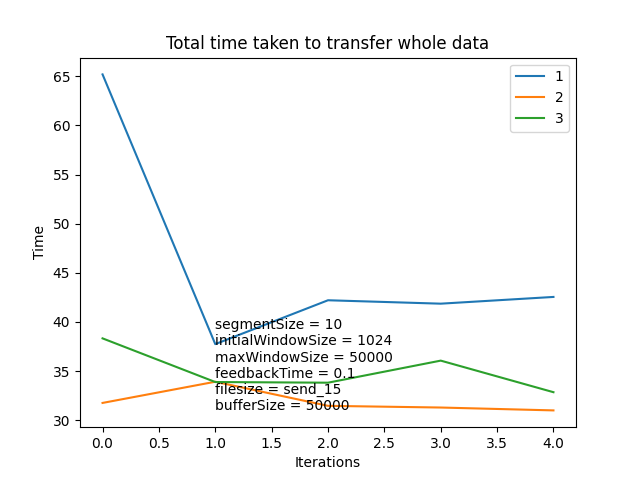
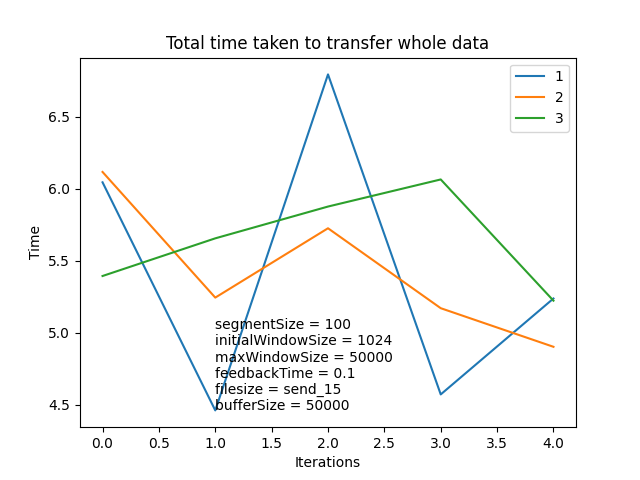
Added some graphs for loss 1

diff --git a/RUDP_testing_client.py b/RUDP_testing_client.py
@@ -66,6 +66,10 @@ for i in range(5):
 # timer_1 = [7.602732038998511, 5.475548384994909, 6.192044618001091, 6.590054241001781, 5.9031156550045125]
 # timer_2 = [8.607846077000431, 10.09384544799832, 7.935086603996751, 7.25913836700056, 7.731159035000019]
 # timer_3 = [9.750261357999989, 9.7952436869964, 10.235173731998657, 10.239129595000122, 8.248223855000106]
+# timer_1 = [6.743216530994687, 5.977355709997937, 5.3149068060010904, 5.325412235004478, 5.741012362996116]
+# timer_2 = [7.36355656899832, 6.8418743680012994, 6.257764028996462, 4.644368727000256, 5.1715113739992375]
+# timer_3 = [5.542510102000961, 5.492816213001788, 5.498592156996892, 5.550686763999693, 5.4335575029981555]
+
 print(timer_1)
 print(timer_2)
 print(timer_3)
@@ -87,25 +91,9 @@ textstr = '\n'.join((
     f'bufferSize = {options.bufferSize}'))
 
 
-
-# props = dict(boxstyle='round', facecolor='wheat', alpha=0.5)
-
-# plt.text(0.05, 0.95, textstr, fontsize=14,
-#         verticalalignment='top')
-
-# plt.figtext(-0.05, 3.5, s=textstr, horizontalalignment = "center")
 y=min(min(timer_1), min(timer_2), min(timer_3))
 plt.text(1, y, textstr)
 
-# timer_name = "/home/mininet/FCN_project/graphs/timer_logs_" +  options.dstIP + "_" + str(options.port)\
-#      + "_" + str(options.initialWindowSize) + "_" + str(options.feedbackTime) +\
-#            "_" + str(options.maxWindowSize) + "_" + sfile[0] + "_" + str(options.bufferSize) + "_" + ".png"
-
-# textfile = open(timer_name, "w")
-# textfile.write(timer_1)
-# textfile.write(timer_2)
-# textfile.write(timer_3)
-# textfile.close()
 
 
 file_name = "/home/mininet/FCN_project/graphs/client_" +  options.dstIP + "_" + str(options.port)\

diff --git a/mininetSocketTest.py b/mininetSocketTest.py
@@ -33,7 +33,7 @@ class SingleSwitchTopo( Topo ):
                                 cpu=.5 / n)
             if lossy:
                 # 10 Mbps, 5ms delay, 10% packet loss
-                self.addLink(host, switch, bw=100, delay='5ms', loss=10, use_htb=True)
+                self.addLink(host, switch, bw=100, delay='5ms', loss=1, use_htb=True)
             else:
                 # 10 Mbps, 5ms delay, no packet loss
                 self.addLink(host, switch,
